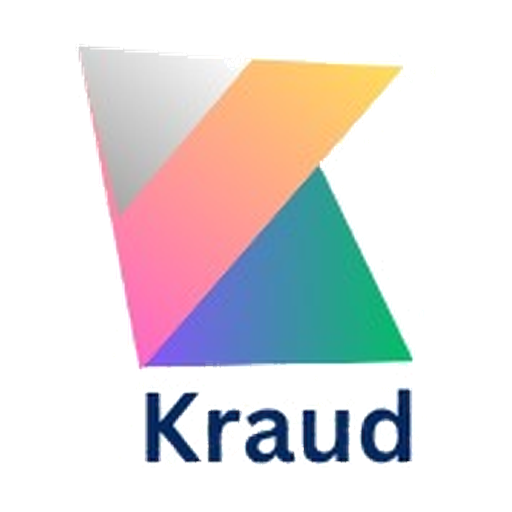
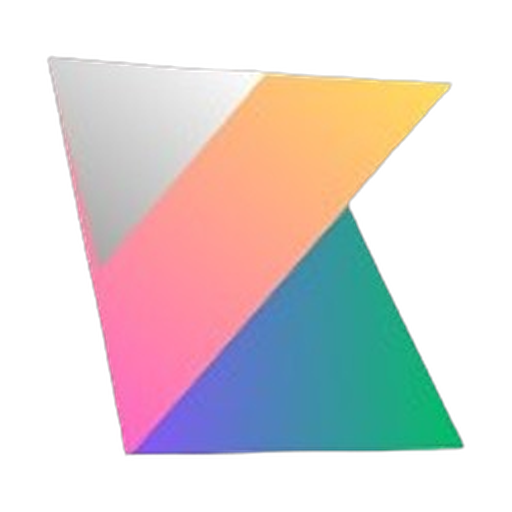
properties now accesible without auth

Changed region(s): [[0.0938, 0.0938, 0.9062, 0.9062]]

diff --git a/app/page.tsx b/app/page.tsx
@@ -2,19 +2,21 @@ import Link from "next/link";
 import Icon from "@/components/Icon";
 import { listings } from "@/lib/q";
 import { nairaShort } from "@/lib/format";
+import CitySketch from "@/components/CitySketch";
 export const dynamic = "force-dynamic";
-export default async function Landing() { const hero = (await listings().catch(() => [])).slice(0, 4);
+export default async function Landing() { const hero = (await listings().catch(() => [])).slice(0, 8);
   const feat = [["shield", "Escrow on every deal", "Funds held by Kraud's escrow agent and released only after handover."], ["piggy", "Save toward a home", "Lock a listing and build a target pot — not a bank account, a purchase plan."], ["chat", "Private 1-on-1 chat", "Talk directly with verified sellers. No group spam."], ["receipt", "Instant receipts", "Every payment gets a Kraud reference, ₦ amount and WAT timestamp."]];
   return (<div className="min-h-screen">
-    <header className="sticky top-0 z-30 bg-white/85 backdrop-blur border-b border-silver-200"><div className="max-w-6xl mx-auto px-5 h-16 flex items-center gap-3"><img src="/icons/icon-192.png" className="w-9 h-9 rounded-lg" alt="Kraud" /><span className="text-xl font-extrabold text-navy tracking-tight">kraud</span><div className="ml-auto flex gap-2"><Link href="/login" className="btn-ghost h-10">Sign in</Link><Link href="/signup" className="btn-primary h-10">Get started</Link></div></div></header>
+    <header className="sticky top-0 z-30 bg-white/85 backdrop-blur border-b border-silver-200"><div className="max-w-6xl mx-auto px-5 h-16 flex items-center gap-3"><Link href="/" aria-label="Kraud"><img src="/logo.png" className="h-9 w-auto" alt="Kraud" /></Link><nav className="ml-6 hidden sm:flex text-sm font-medium text-navy"><Link href="/explore" className="hover:text-teal">Browse properties</Link></nav><div className="ml-auto flex gap-2"><Link href="/login" className="btn-ghost h-10">Sign in</Link><Link href="/signup" className="btn-primary h-10">Get started</Link></div></div></header>
     <section className="bg-navy text-white relative overflow-hidden"><div className="absolute -right-24 -top-24 w-[28rem] h-[28rem] rounded-full bg-teal/30 blur-3xl" />
       <div className="relative max-w-6xl mx-auto px-5 py-14 lg:py-24 grid lg:grid-cols-2 gap-10 items-center"><div>
-        <span className="chip bg-white/10 text-white/90">Now live nationwide · incl. Umuahia</span>
-        <h1 className="mt-4 text-4xl lg:text-6xl font-extrabold leading-[1.05] tracking-tight">Own verified property<br />across Nigeria.</h1>
-        <p className="mt-4 text-white/75 text-lg max-w-md">Browse, save toward, and buy homes from trusted developers — protected by escrow and paid via Monnify.</p>
-        <div className="mt-7 flex gap-3"><Link href="/signup" className="btn bg-white text-navy hover:bg-paper h-12 px-6">Create account <Icon n="arrow" className="w-4 h-4" /></Link><Link href="/explore" className="btn border border-white/30 text-white h-12 px-6 hover:bg-white/10">Explore listings</Link></div>
-        <div className="mt-8 flex gap-8 text-sm"><div><b className="text-2xl block">5</b><span className="text-white/60">cities at launch</span></div><div><b className="text-2xl block">100%</b><span className="text-white/60">escrow-protected</span></div><div><b className="text-2xl block">1:1</b><span className="text-white/60">verified chat</span></div></div></div>
-        <div className="hidden lg:block relative"><img src="/mark.png" alt="" className="absolute -top-10 right-0 w-28 opacity-90" /><div className="grid grid-cols-2 gap-4">{hero.map((l, i) => <div key={l.id} className={`rounded-2xl overflow-hidden bg-white/10 ${i % 2 ? "translate-y-8" : ""}`}><img src={l.img} alt="" className="h-40 w-full object-cover" /><div className="p-3 text-sm"><b>{nairaShort(l.price)}</b><div className="text-white/70 truncate">{l.estate}</div></div></div>)}</div></div></div></section>
+        <h1 className=" text-4xl lg:text-6xl font-extrabold leading-[1.05] tracking-tight">Own verified property<br />across Nigeria.</h1>
+        <p className="mt-4 text-white/75 text-lg max-w-md">No sign-up needed to look around. Browse, save toward, and buy homes from trusted developers — protected by escrow and paid via Monnify.</p>
+        <div className="mt-7 flex gap-3"><Link href="/explore" className="btn bg-white text-navy hover:bg-paper h-12 px-6">Browse properties <Icon n="arrow" className="w-4 h-4" /></Link><Link href="/signup" className="btn border border-white/30 text-white h-12 px-6 hover:bg-white/10">Create account</Link></div>
+        <div className="mt-8 flex gap-8 text-sm"><div><b className="text-2xl block">100%</b><span className="text-white/60">escrow-protected</span></div><div><b className="text-2xl block">1:1</b><span className="text-white/60">verified chat</span></div></div></div>
+        <div className="hidden lg:block"><CitySketch /></div></div></section>
+    <section className="max-w-6xl mx-auto px-5 pt-12"><div className="flex items-end justify-between mb-4"><div><h2 className="text-2xl font-extrabold text-navy">Properties for sale</h2><p className="text-sm text-silver">Verified listings — browse freely, sign up only to buy, save or chat.</p></div><Link href="/explore" className="text-teal font-semibold text-sm flex items-center gap-1">See all <Icon n="arrow" className="w-4 h-4" /></Link></div>
+      {hero.length === 0 ? <div className="card p-6 text-center text-sm text-silver">New verified listings are on the way. <Link href="/explore" className="text-teal underline">Explore</Link></div> : <div className="grid grid-cols-1 sm:grid-cols-2 lg:grid-cols-4 gap-4">{hero.map((l) => <Link key={l.id} href={`/property/${l.id}`} className="card overflow-hidden hover:shadow-lift transition"><img src={l.img} alt="" className="h-44 w-full object-cover" /><div className="p-3"><b className="text-navy">{nairaShort(l.price)}</b><div className="text-sm text-navy truncate">{l.title}</div><div className="text-xs text-silver truncate">{l.estate}, {l.city}</div></div></Link>)}</div>}</section>
     <section className="max-w-6xl mx-auto px-5 py-14 grid sm:grid-cols-2 lg:grid-cols-4 gap-4">{feat.map(([ic, t, d]) => <div key={t} className="card p-5 hover:shadow-lift transition"><div className="w-10 h-10 rounded-xl bg-navy-50 text-navy grid place-items-center"><Icon n={ic} /></div><h3 className="mt-3 font-bold text-navy">{t}</h3><p className="text-sm text-silver mt-1">{d}</p></div>)}</section>
     <footer className="border-t border-silver-200 py-8 text-center text-xs text-silver">© 2026 Kraud · Lagos · Abuja · Port Harcourt · Enugu · Umuahia</footer></div>);
 }

diff --git a/app/(app)/explore/page.tsx b/app/(app)/explore/page.tsx
@@ -3,26 +3,26 @@ import Icon from "@/components/Icon";
 import { FeaturedTag, ListingCard, PageHead } from "@/components/Bits";
 import { Cover } from "@/components/Ui";
 import { cities, featured, listings } from "@/lib/q";
-import { currentUser, requireUser, isAdmin } from "@/lib/auth";
+import { currentUser, isAdmin } from "@/lib/auth";
 import { prisma } from "@/lib/db";
 import { track } from "@/lib/pricing";
 import { nairaShort } from "@/lib/format";
 const Slot = ({ name }: { name: string }) => <div className="rounded-2xl border border-dashed border-silver p-4 text-xs text-silver text-center">Featured · {name} — slot available</div>;
 export default async function Explore({ searchParams }: { searchParams: Promise<{ city?: string; q?: string; status?: string }> }) {
-  const s = await searchParams; const city = s.city || "All"; const q = (s.q || "").toLowerCase(); const u = await requireUser();
-  const [all, unread, cityList, fsAll, rec, sideAll, foot] = await Promise.all([listings(), prisma.reminder.count({ where: { userId: u.id, read: false } }), cities(), featured("search"), featured("recommended"), featured("sidebar"), featured("footer")]);
+  const s = await searchParams; const city = s.city || "All"; const q = (s.q || "").toLowerCase(); const u = await currentUser();
+  const [all, unread, cityList, fsAll, rec, sideAll, foot] = await Promise.all([listings(), u ? prisma.reminder.count({ where: { userId: u.id, read: false } }) : Promise.resolve(0), cities(), featured("search"), featured("recommended"), featured("sidebar"), featured("footer")]);
   const res = all.filter((l) => (city === "All" || l.city === city) && (!s.status || l.status === s.status) && (!q || `${l.title} ${l.estate} ${l.city} ${l.state} ${l.type}`.toLowerCase().includes(q)));
   const fs = fsAll.filter((l) => city === "All" || l.city === city)[0]; const side = sideAll.filter((l) => city === "All" || l.city === city)[0] ?? sideAll[0];
   const tc = city === "All" ? "Lagos" : city;
   await Promise.all([fs && track("search", fs.city), side && track("sidebar", side.city), !q && rec.length && track("recommended", tc), foot.length && track("footer", tc)]);
   const href = (o: Record<string, string>) => "/explore?" + new URLSearchParams({ city, q: s.q || "", status: s.status || "", ...o }).toString();
   return (<div>
-    <PageHead title={`Hello, ${u.name.split(" ")[0]}`} sub="Find verified property across Nigeria" right={<Link href="/reminders" className="relative w-10 h-10 grid place-items-center rounded-full bg-white shadow-card text-navy" aria-label="Reminders"><Icon n="bell" />{unread > 0 && <span className="absolute -top-0.5 -right-0.5 w-5 h-5 rounded-full bg-teal text-white text-[10px] grid place-items-center">{unread}</span>}</Link>} />
+    <PageHead title={u ? `Hello, ${u.name.split(" ")[0]}` : "Explore properties"} sub="Find verified property across Nigeria" right={u && <Link href="/reminders" className="relative w-10 h-10 grid place-items-center rounded-full bg-white shadow-card text-navy" aria-label="Reminders"><Icon n="bell" />{unread > 0 && <span className="absolute -top-0.5 -right-0.5 w-5 h-5 rounded-full bg-teal text-white text-[10px] grid place-items-center">{unread}</span>}</Link>} />
     <div className="px-4 lg:px-8 space-y-4">
       <form className="relative"><Icon n="search" className="absolute left-4 top-3.5 w-5 h-5 text-silver" /><input name="q" defaultValue={s.q} className="input pl-11 shadow-card" placeholder="Search estate, city, state or type" /><input type="hidden" name="city" value={city} /></form>
       <div className="flex gap-2 overflow-x-auto no-scrollbar -mx-4 px-4">{cityList.map((c) => <Link key={c} href={href({ city: c })} className={`chip h-9 px-4 text-xs shrink-0 ${c === city ? "bg-navy text-white" : "bg-white text-navy border border-silver-200"}`}>{c}</Link>)}
         {["Completed", "Carcass", "Off-plan"].map((st) => <Link key={st} href={href({ status: s.status === st ? "" : st })} className={`chip h-9 px-4 text-xs shrink-0 ${s.status === st ? "bg-teal text-white" : "bg-white text-teal border border-teal/30"}`}>{st}</Link>)}</div>
-      {all.length === 0 && <div className="card p-6 text-center text-sm"><b className="text-navy">No listings yet.</b><p className="text-silver mt-1">{isAdmin(u) ? <>Open <Link className="text-teal underline" href="/admin">Admin</Link> to seed sample data or approve seller listings.</> : "New verified listings are on the way."}</p></div>}
+      {all.length === 0 && <div className="card p-6 text-center text-sm"><b className="text-navy">No listings yet.</b><p className="text-silver mt-1">{u && isAdmin(u) ? <>Open <Link className="text-teal underline" href="/admin">Admin</Link> to seed sample data or approve seller listings.</> : "New verified listings are on the way."}</p></div>}
       <div className="lg:flex gap-6"><div className="flex-1 min-w-0 space-y-5">
         {fs ? <Link href={`/property/${fs.id}`} className="block card overflow-hidden hover:shadow-lift transition"><div className="flex"><Cover id={fs.id} src={fs.img} alt="" className="w-32 sm:w-48 shrink-0" /><div className="p-3 min-w-0"><FeaturedTag slot="Search" /><div className="mt-1.5 font-bold text-navy">{nairaShort(fs.price)}</div><div className="text-sm truncate">{fs.title}</div><div className="text-xs text-silver truncate">{fs.estate}</div></div></div></Link> : all.length > 0 && <Slot name="Search" />}
         {!q && rec.length > 0 && <section><div className="flex items-center justify-between mb-2"><h2 className="font-bold text-navy">Recommended for you</h2><span className="text-[11px] text-silver">Featured · Recommended</span></div>

diff --git a/app/(app)/property/[id]/page.tsx b/app/(app)/property/[id]/page.tsx
@@ -4,12 +4,12 @@ import Icon from "@/components/Icon";
 import { FeaturedTag, ListingCard, StatusChip } from "@/components/Bits";
 import { ActionButton, Cover } from "@/components/Ui";
 import { featured, getListing, listings } from "@/lib/q";
-import { requireUser } from "@/lib/auth";
+import { currentUser } from "@/lib/auth";
 import { track } from "@/lib/pricing";
 import { naira } from "@/lib/format";
 export default async function Prop({ params }: { params: Promise<{ id: string }> }) {
-  const { id } = await params; const u = await requireUser(); const l = await getListing(id); if (!l || (l.moderation !== "Approved" && l.sellerId !== u.id)) notFound();
-  const mine = l.sellerId === u.id; const imm = (await featured("immersive")).find((x) => x.id !== l.id); const similar = (await listings({ city: l.city, NOT: { id: l.id } })).slice(0, 3); if (imm) await track("immersive", l.city);
+  const { id } = await params; const u = await currentUser(); const uid = u?.id ?? ""; const l = await getListing(id); if (!l || (l.moderation !== "Approved" && (!uid || l.sellerId !== uid))) notFound();
+  const mine = !!uid && l.sellerId === uid; const imm = (await featured("immersive")).find((x) => x.id !== l.id); const similar = (await listings({ city: l.city, NOT: { id: l.id } })).slice(0, 3); if (imm) await track("immersive", l.city);
   return (<div className="lg:px-8 lg:pt-6">
     <div className="relative"><Cover id={l.id} src={l.img} alt={l.title} className="h-[52vh] lg:h-[60vh] lg:rounded-3xl" /><div className="absolute inset-0 bg-gradient-to-t from-black/70 via-transparent to-black/20 lg:rounded-3xl" />
       <Link href="/explore" className="absolute top-[max(env(safe-area-inset-top),14px)] left-4 w-10 h-10 grid place-items-center rounded-full bg-white/90 text-navy"><Icon n="back" /></Link>
@@ -23,12 +23,12 @@ export default async function Prop({ params }: { params: Promise<{ id: string }>
         {similar.length > 0 && <div><h2 className="font-bold text-navy mb-2">More in {l.city}</h2><div className="grid sm:grid-cols-2 gap-3">{similar.map((x) => <ListingCard key={x.id} l={x} compact />)}</div></div>}
       </div>
       <div className="hidden lg:block"><div className="card p-5 sticky top-6 space-y-3"><div className="text-3xl font-extrabold text-navy">{naira(l.price)}</div><div className="text-sm text-silver">Listed by {l.sellerName}</div>
-        {mine ? <Link href={`/seller/listing/${l.id}`} className="btn-primary w-full h-12">Edit your listing</Link> : <><Link href={`/checkout/${l.id}`} className="btn-primary w-full h-12">Buy now</Link><ActionButton action="goal" body={{ listingId: l.id }} then="/savings" className="btn-ghost w-full">Save toward this home</ActionButton><ActionButton action="chat-start" body={{ listingId: l.id }} then="/chat/:id" className="btn-ghost w-full">Chat with seller</ActionButton></>}{l.moderation !== "Approved" && <p className="chip bg-silver-200 text-navy">{l.moderation} — not public yet</p>}</div></div>
+        {mine ? <Link href={`/seller/listing/${l.id}`} className="btn-primary w-full h-12">Edit your listing</Link> : <><Link href={`/checkout/${l.id}`} className="btn-primary w-full h-12">Buy now</Link>{u ? <><ActionButton action="goal" body={{ listingId: l.id }} then="/savings" className="btn-ghost w-full">Save toward this home</ActionButton><ActionButton action="chat-start" body={{ listingId: l.id }} then="/chat/:id" className="btn-ghost w-full">Chat with seller</ActionButton></> : <><Link href="/signup" className="btn-ghost w-full">Sign up to save or chat</Link><p className="text-xs text-silver text-center">Browsing is free — an account is only needed to buy, save or chat.</p></>}</>}{l.moderation !== "Approved" && <p className="chip bg-silver-200 text-navy">{l.moderation} — not public yet</p>}</div></div>
     </div>
-    {!mine && <div className="lg:hidden fixed bottom-16 inset-x-0 z-30 bg-white border-t border-silver-200 px-4 py-2.5 flex items-center gap-2" style={{ marginBottom: "env(safe-area-inset-bottom)" }}>
+    {!mine && <div className={`lg:hidden fixed ${u ? "bottom-16" : "bottom-0"} inset-x-0 z-30 bg-white border-t border-silver-200 px-4 py-2.5 flex items-center gap-2`} style={{ marginBottom: "env(safe-area-inset-bottom)" }}>
       <div className="flex-1 min-w-0"><div className="text-[11px] text-silver">Price</div><div className="font-extrabold text-navy truncate">{naira(l.price)}</div></div>
-      <ActionButton action="chat-start" body={{ listingId: l.id }} then="/chat/:id" className="btn-ghost w-11 px-0"><Icon n="chat" /></ActionButton>
-      <ActionButton action="goal" body={{ listingId: l.id }} then="/savings" className="btn-ghost w-11 px-0"><Icon n="piggy" /></ActionButton>
+      {u ? <><ActionButton action="chat-start" body={{ listingId: l.id }} then="/chat/:id" className="btn-ghost w-11 px-0"><Icon n="chat" /></ActionButton>
+      <ActionButton action="goal" body={{ listingId: l.id }} then="/savings" className="btn-ghost w-11 px-0"><Icon n="piggy" /></ActionButton></> : <Link href="/signup" className="btn-ghost px-3 text-sm">Sign up</Link>}
       <Link href={`/checkout/${l.id}`} className="btn-primary px-6">Buy</Link></div>}
     <div className="h-20 lg:hidden" /></div>);
 }

diff --git a/components/Client.tsx b/components/Client.tsx
@@ -24,7 +24,7 @@ export function LoginForm() {
     <label className="block"><span className="label">Username or email</span><input name="id" className="input mt-1.5" placeholder="ada or ada@kraud.ng" autoCapitalize="none" required /></label>
     <PasswordInput help={false} /><Err e={f.error} />
     <button className="btn-primary w-full" disabled={f.busy}>{f.busy ? "Signing in…" : "Sign in"}</button>
-    <div className="flex justify-between text-sm"><Link href="/forgot" className="text-teal font-medium">Forgot passphrase?</Link><Link href="/signup" className="text-navy font-medium">Create account</Link></div></form>);
+    <div className="flex justify-between text-sm"><Link href="/forgot" className="text-teal font-medium">Forgot password?</Link><Link href="/signup" className="text-navy font-medium">Create account</Link></div></form>);
 }
 export function SignupForm() {
   const r = useRouter(); const [dev, setDev] = useState("");
@@ -49,11 +49,11 @@ export function ForgotForm() {
   const [step, setStep] = useState<"ask" | "reset" | "done">("ask"); const [id, setId] = useState(""); const [dev, setDev] = useState("");
   const a = useForm("forgot", (d) => { setStep("reset"); if (d.devPhrase) setDev(d.devPhrase); });
   const b = useForm("reset", () => setStep("done"));
-  if (step === "done") return <div className="text-center space-y-4"><h2 className="font-bold text-navy text-lg">Passphrase updated</h2><Link href="/login" className="btn-primary w-full">Sign in</Link></div>;
+  if (step === "done") return <div className="text-center space-y-4"><h2 className="font-bold text-navy text-lg">Password updated</h2><Link href="/login" className="btn-primary w-full">Sign in</Link></div>;
   if (step === "reset") return (<form onSubmit={b.onSubmit} className="space-y-4"><input type="hidden" name="id" value={id} />
     <p className="text-sm text-silver">We emailed a 2-word Nigerian reset phrase. It expires in <b className="text-navy">15 minutes</b>.</p>
     {dev && <p className="chip bg-teal-50 text-teal">Dev (SMTP off): {dev}</p>}
-    <PasswordInput name="phrase" label="Reset phrase" placeholder="e.g. suya kano" help={false} /><PasswordInput label="New passphrase" /><Err e={b.error} /><button className="btn-primary w-full">Reset passphrase</button></form>);
+    <PasswordInput name="phrase" label="Reset phrase" placeholder="e.g. suya kano" help={false} /><PasswordInput label="New password" /><Err e={b.error} /><button className="btn-primary w-full">Reset password</button></form>);
   return (<form onSubmit={(e) => { setId(String(new FormData(e.currentTarget).get("id"))); a.onSubmit(e); }} className="space-y-4">
     <label className="block"><span className="label">Username or email</span><input name="id" className="input mt-1.5" required autoCapitalize="none" /></label><Err e={a.error} /><button className="btn-primary w-full">Send reset phrase</button></form>);
 }

diff --git a/app/api/[action]/route.ts b/app/api/[action]/route.ts
@@ -1,6 +1,6 @@
 import { NextRequest, NextResponse } from "next/server";
 import { prisma } from "@/lib/db";
-import { checkPassphrase } from "@/lib/words";
+const checkPassphrase = (p: string) => p.length < 8 ? "Password must be at least 8 characters" : p.length > 128 ? "Password is too long" : !/[A-Za-z]/.test(p) || !/[^A-Za-z]/.test(p) ? "Use letters plus at least one number or symbol" : null;
 import { checkPw, clearSession, currentUser, findLogin, hashPw, isAdmin, issueToken, kycOk, setSession, useToken, type Me } from "@/lib/auth";
 import { devMail, sendMail } from "@/lib/mail";
 import { seedAdd, seedRemove } from "@/lib/seed";
@@ -48,7 +48,7 @@ export async function POST(req: NextRequest, { params }: { params: Promise<{ act
       }
       case "login": {
         const id = str(b.id).toLowerCase(); if (limited("login:" + id, 8, 15 * 60e3) || limited("loginip:" + ip, 30, 15 * 60e3)) return err("Too many attempts. Try again in 15 minutes.", 429);
-        const u = await findLogin(id); if (!u || !checkPw(u, String(b.password || ""))) return err("Wrong username/email or passphrase", 401);
+        const u = await findLogin(id); if (!u || !checkPw(u, String(b.password || ""))) return err("Wrong username/email or password", 401);
         await setSession(u.id); return j({ ok: true });
       }
       case "logout": await clearSession(); return j({ ok: true });
@@ -57,7 +57,7 @@ export async function POST(req: NextRequest, { params }: { params: Promise<{ act
       case "forgot": {
         if (limited("forgot:" + ip, 10, 3600e3)) return err("Too many requests", 429);
         const u = await findLogin(str(b.id)); if (!u) return j({ ok: true });
-        const t = await issueToken(u.id, "reset"); await sendMail(u.email, "Kraud passphrase reset", `Your reset phrase (valid 15 minutes): ${t.phrase}\n\nIf you didn't ask for this, ignore this email.`);
+        const t = await issueToken(u.id, "reset"); await sendMail(u.email, "Kraud password reset", `Your reset phrase (valid 15 minutes): ${t.phrase}\n\nIf you didn't ask for this, ignore this email.`);
         return j({ ok: true, ...dev({ devPhrase: t.phrase }) });
       }
       case "reset": {

diff --git a/components/CitySketch.tsx b/components/CitySketch.tsx
@@ -1,0 +1,30 @@
+// Line-art mega-city skyline for the dark navy hero.
+export default function CitySketch() {
+  const s = { fill: "none", strokeLinecap: "round" as const, strokeLinejoin: "round" as const };
+  const win = (x: number, y: number, cols: number, rows: number, dx = 10, dy = 14) =>
+    Array.from({ length: cols * rows }, (_, i) => <rect key={`${x}-${y}-${i}`} x={x + (i % cols) * dx} y={y + Math.floor(i / cols) * dy} width={5} height={7} rx={0.5} />);
+  return (
+    <svg viewBox="0 0 520 420" className="w-full h-auto" role="img" aria-label="City skyline sketch">
+      <g {...s} stroke="#8A9199" strokeOpacity={0.35} strokeWidth={1} strokeDasharray="3 5">
+        <path d="M20 380 L260 60 L500 380" /><path d="M60 380 L260 120 L460 380" />
+      </g>
+      <g {...s} stroke="#8A9199" strokeOpacity={0.55} strokeWidth={1.2}>
+        <rect x="30" y="230" width="60" height="150" /><rect x="430" y="210" width="60" height="170" />
+        <path d="M100 380 V260 L130 240 L160 260 V380" />
+        <g strokeOpacity={0.4}>{win(40, 245, 4, 9, 12)}{win(440, 225, 4, 10, 12)}</g>
+      </g>
+      <g {...s} stroke="#F7F8FA" strokeWidth={1.6}>
+        <path d="M170 380 V120 L200 90 L230 120 V380" /><path d="M200 90 V55" /><circle cx="200" cy="52" r="3" />
+        <path d="M245 380 V70 H300 V380" /><path d="M255 70 V50 H290 V70" /><path d="M272 50 V22" />
+        <path d="M315 380 V150 L345 135 L375 150 V380" /><path d="M385 380 V185 H420 V380" />
+        <g strokeOpacity={0.7} strokeWidth={1}>{win(180, 135, 4, 17, 11)}{win(253, 85, 4, 20, 12)}{win(323, 165, 4, 15, 12)}{win(392, 200, 2, 12, 14)}</g>
+      </g>
+      <g {...s} stroke="#1F7A72" strokeWidth={2}>
+        <path d="M120 380 Q260 300 400 380" /><path d="M150 380 V355 M190 380 V335 M230 380 V325 M290 380 V325 M330 380 V335 M370 380 V355" strokeWidth={1.2} />
+        <path d="M245 140 H300 M245 220 H300 M170 200 H230" strokeOpacity={0.8} />
+      </g>
+      <path d="M10 380 H510" stroke="#F7F8FA" strokeWidth={1.6} strokeLinecap="round" />
+      <g fill="#1F7A72"><circle cx="272" cy="22" r="3" /></g>
+    </svg>
+  );
+}

diff --git a/app/AuthShell.tsx b/app/AuthShell.tsx
@@ -1,7 +1,7 @@
 import Link from "next/link";
 export default function AuthShell({ title, sub, children }: { title: string; sub: string; children: React.ReactNode }) {
   return (<div className="min-h-[100dvh] grid lg:grid-cols-2">
-    <div className="hidden lg:flex flex-col justify-between bg-navy text-white p-12"><Link href="/" className="flex items-center gap-3"><img src="/mark.png" className="w-12 h-12" alt="" /><span className="text-2xl font-extrabold">kraud</span></Link><div><h2 className="text-4xl font-extrabold leading-tight">Verified property.<br />Escrow-protected.<br /><span className="text-[#7FC4BD]">Nationwide.</span></h2><p className="mt-4 text-white/70 max-w-sm">Lagos · Abuja · Port Harcourt · Enugu · Umuahia</p></div><p className="text-xs text-white/50">Payments by Monnify · NDPR-aligned data handling</p></div>
+    <div className="hidden lg:flex flex-col justify-between bg-navy text-white p-12"><Link href="/" className="flex items-center gap-3"><img src="/logo-white.png" className="h-12 w-auto" alt="Kraud" /></Link><div><h2 className="text-4xl font-extrabold leading-tight">Verified property.<br />Escrow-protected.<br /><span className="text-[#7FC4BD]">Nationwide.</span></h2><p className="mt-4 text-white/70 max-w-sm">Lagos · Abuja · Port Harcourt · Enugu · Umuahia</p></div><p className="text-xs text-white/50">Payments by Monnify · NDPR-aligned data handling</p></div>
     <div className="flex flex-col justify-center px-5 py-10 sm:px-12"><div className="w-full max-w-sm mx-auto"><Link href="/" className="lg:hidden flex items-center gap-2 mb-8"><img src="/icons/icon-192.png" className="w-10 h-10 rounded-xl" alt="" /><span className="text-xl font-extrabold text-navy">kraud</span></Link>
       <h1 className="text-2xl font-extrabold text-navy">{title}</h1><p className="text-sm text-silver mt-1 mb-6">{sub}</p>{children}</div></div></div>);
 }

diff --git a/components/Ui.tsx b/components/Ui.tsx
@@ -2,7 +2,7 @@
 import { useState } from "react";
 import { useRouter } from "next/navigation";
 import Icon from "./Icon";
-export function PasswordInput({ name = "password", placeholder = "e.g. jollof lekki umuahia", label = "Passphrase", help = true }: { name?: string; placeholder?: string; label?: string; help?: boolean }) {
+export function PasswordInput({ name = "password", placeholder = "At least 8 characters", label = "Password", help = true }: { name?: string; placeholder?: string; label?: string; help?: boolean }) {
   const [show, setShow] = useState(false);
   return (
     <label className="block">
@@ -11,7 +11,7 @@ export function PasswordInput({ name = "password", placeholder = "e.g. jollof le
         <input name={name} type={show ? "text" : "password"} autoComplete="off" autoCapitalize="none" placeholder={placeholder} className="input pr-12" required />
         <button type="button" onClick={() => setShow(!show)} aria-label={show ? "Hide" : "Show"} className="absolute right-1 top-1 h-10 w-10 grid place-items-center text-silver hover:text-navy"><Icon n={show ? "eyeoff" : "eye"} /></button>
       </div>
-      {help && <span className="mt-1 block text-xs text-silver">Use 2 or more Nigerian words, e.g. <i>suya abuja</i> or <i>owambe jollof ikoyi</i>.</span>}
+      {help && <span className="mt-1 block text-xs text-silver">At least 8 characters, with a number or symbol. We email you a Nigerian-word code for verification and resets.</span>}
     </label>
   );
 }

diff --git a/app/(app)/layout.tsx b/app/(app)/layout.tsx
@@ -1,10 +1,12 @@
-import { redirect } from "next/navigation";
+import Link from "next/link";
 import { currentUser, isAdmin } from "@/lib/auth";
 import { BottomNav, SideNav } from "@/components/Nav";
 import { VerifyBanner } from "@/components/Client";
 export const dynamic = "force-dynamic";
 export default async function AppLayout({ children }: { children: React.ReactNode }) {
-  const u = await currentUser(); if (!u) redirect("/login"); const seller = u.role === "SELLER";
+  const u = await currentUser();
+  if (!u) return (<div className="min-h-screen"><header className="sticky top-0 z-30 bg-white/90 backdrop-blur border-b border-silver-200"><div className="max-w-6xl mx-auto px-4 h-14 flex items-center gap-2"><Link href="/" className="flex items-center gap-2"><img src="/icons/icon-192.png" alt="" className="w-8 h-8 rounded-lg" /><span className="text-lg font-extrabold text-navy">Kraud</span></Link><div className="ml-auto flex gap-2"><Link href="/login" className="btn-ghost h-9">Sign in</Link><Link href="/signup" className="btn-primary h-9">Sign up</Link></div></div></header><main className="max-w-6xl mx-auto pb-safe">{children}</main></div>);
+ const seller = u.role === "SELLER";
   return (<div className="lg:flex min-h-screen"><SideNav admin={isAdmin(u)} seller={seller} />
     <main className="flex-1 min-w-0 pb-safe">{!u.verified && <VerifyBanner email={u.email} />}{children}</main><BottomNav seller={seller} /></div>);
 }

diff --git a/components/Nav.tsx b/components/Nav.tsx
@@ -22,7 +22,7 @@ export function SideNav({ admin, seller }: { admin: boolean; seller?: boolean })
   const items = [...TABS, ...(seller ? [["/seller", "Seller dashboard", "grid"]] : []), ["/reminders", "Reminders", "bell"], ...(admin ? [["/admin", "Admin", "shield"]] : [])] as [string, string, string][];
   return (
     <aside className="hidden lg:flex flex-col w-60 shrink-0 border-r border-silver-200 bg-white h-screen sticky top-0 p-4">
-      <Link href="/" className="flex items-center gap-2 px-2 py-3"><img src="/icons/icon-192.png" alt="" className="w-9 h-9 rounded-lg" /><span className="text-xl font-extrabold tracking-tight text-navy">kraud</span></Link>
+      <Link href="/" className="flex items-center gap-2 px-2 py-3"><img src="/logo.png" alt="Kraud" className="h-9 w-auto" /></Link>
       <div className="mt-4 space-y-1">{items.map(([href, label, ic]) => (
         <Link key={href} href={href} className={`flex items-center gap-3 rounded-xl px-3 h-11 text-sm font-medium ${p.startsWith(href) ? "bg-navy text-white" : "text-navy hover:bg-navy-50"}`}><Icon n={ic} />{label}</Link>))}</div>
       <div className="mt-auto text-[11px] text-silver px-2">Escrow-protected · Monnify payments</div>

diff --git a/app/signup/page.tsx b/app/signup/page.tsx
@@ -1,2 +1,2 @@
 import AuthShell from "../AuthShell"; import { SignupForm } from "@/components/Client";
-export default function P() { return <AuthShell title="Create your Kraud account" sub="Your passphrase is made of Nigerian words — easy to remember, hard to guess."><SignupForm /></AuthShell>; }
+export default function P() { return <AuthShell title="Create your Kraud account" sub="Pick a password. We'll email a Nigerian-word phrase to verify your email."><SignupForm /></AuthShell>; }

diff --git a/DEMO.md b/DEMO.md
@@ -4,17 +4,17 @@ The demo runs on the real build: Postgres, real Monnify checkout (sandbox keys),
 
 ## 0. Prep (admin)
 1. Sign up as `admin` (it's in `KRAUD_ADMINS`). Verify via the email link.
-2. **Admin → Sample seed data → Add seed data.** One click creates 11 nationwide listings (Lagos, Abuja, Port Harcourt, Enugu, **Umuahia**…), 4 KYC-verified sample sellers (passphrase `suya abuja`, e.g. `adebayohomes`, `umuahiaestates`) and sample buyer `ada` / `jollof lekki`. Files go to `/data/uploads/seed`. **Remove seed data** deletes rows, sample users and files.
+2. **Admin → Sample seed data → Add seed data.** One click creates 11 nationwide listings (Lagos, Abuja, Port Harcourt, Enugu, **Umuahia**…), 4 KYC-verified sample sellers (password `suya abuja`, e.g. `adebayohomes`, `umuahiaestates`) and sample buyer `ada` / `jollof lekki`. Files go to `/data/uploads/seed`. **Remove seed data** deletes rows, sample users and files.
 
 ## 1. Buyer flow
-1. Sign up (Buy / invest), passphrase must be 2+ Nigerian words (e.g. `egusi owerri`), eye toggle shows it. Log in with username **or** email.
+1. Sign up (Buy / invest), set a normal password (8+ chars, with a number or symbol), eye toggle shows it; a Nigerian-word verification phrase is emailed. Log in with username **or** email.
 2. Explore: Featured slots — Search (top card), Recommended (carousel), Sidebar (desktop), Footer, Immersive (property page). Filter by city / stage.
 3. Open a listing → **Buy now** → first time only: one-off NIN/BVN KYC (status: under review → admin approves, or auto with `KYC_PROVIDER=monnify`).
 4. Pay 30% deposit → Monnify sandbox checkout (use the sandbox test cards listed in Monnify's developer docs, or bank transfer). Returns to the receipt; webhook also confirms.
 5. Receipt shows **Paid · in escrow**; **Download PDF** (also emailed as attachment, stored in `/data/receipts`).
 6. **Chat with seller** — 1-on-1, the seller replies for real.
 7. Savings: "Save toward this home" → Top-up via Monnify → Withdraw needs KYC + emailed 2-word 2FA phrase (15-minute expiry) + bank/NUBAN.
-8. Forgot passphrase → emailed 2-word phrase, 15-minute expiry, 5 attempts.
+8. Forgot password → emailed Nigerian 2-word reset phrase (same for 2FA withdrawals), 15-minute expiry, 5 attempts.
 
 ## 2. Seller flow
 1. Log in as a sample seller (or Profile → Become a seller → KYC).
